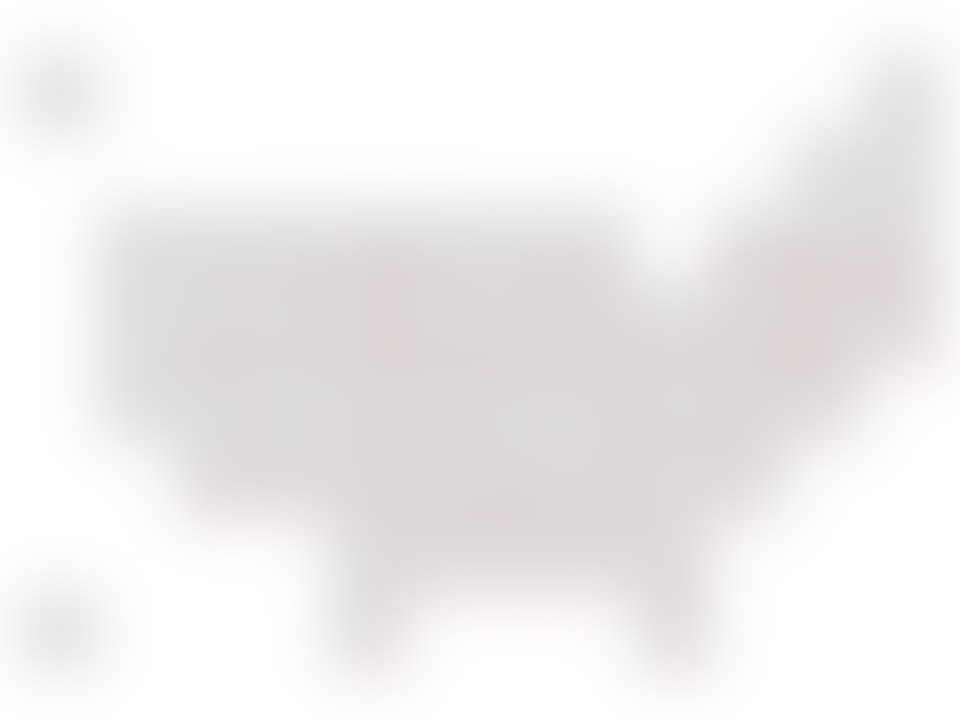
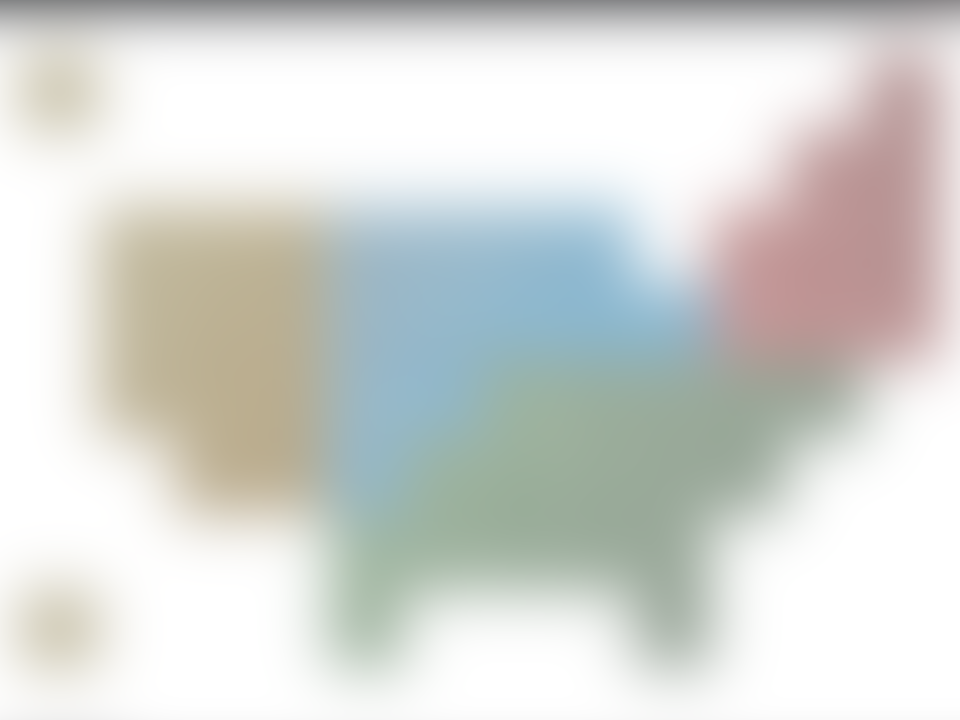
color coded state layout

diff --git a/main.js b/main.js
@@ -187,13 +187,6 @@ Promise.all(promises).then(function(values) {
     // data = weeklyData.concat(leadingCausesWeekly).sort((a, b) => b.count - a.count)
     data = monthlyData.concat(leadingCausesMonthly).sort((a, b) => b.count - a.count)
 
-    const stateLayout = new StateLayout({
-        element: document.querySelector('#state-chart-container'),
-        data: stateDataObj,
-        x: d => d.date,
-        y: d => d.deaths
-    })
-
     const lineChart = new LineChart({
         element: document.querySelector('#line-chart-container'),
         data: dailyData,
@@ -247,6 +240,7 @@ Promise.all(promises).then(function(values) {
         'LA': 'South', 
         'TX': 'South',
         'OK': 'South',
+        'DC': 'South',
 
         'OH': 'Midwest',
         'MI': 'Midwest',
@@ -270,7 +264,6 @@ Promise.all(promises).then(function(values) {
         'NY':'Northeast', 
         'NJ':'Northeast', 
         'PA':'Northeast',
-        'DC':'Northeast'
     }
 
     regionColor = {
@@ -285,65 +278,73 @@ Promise.all(promises).then(function(values) {
     }
 
     stateColors = {
-        'CO': d3.interpolate(d3.color(regionColor.West.high), d3.color(regionColor.West.low))(0/12), 
-        'CA': d3.interpolate(d3.color(regionColor.West.high), d3.color(regionColor.West.low))(1/12), 
+        'AK': d3.interpolate(d3.color(regionColor.West.high), d3.color(regionColor.West.low))(0/12), 
+        'HI': d3.interpolate(d3.color(regionColor.West.high), d3.color(regionColor.West.low))(1/12), 
         'WA': d3.interpolate(d3.color(regionColor.West.high), d3.color(regionColor.West.low))(2/12),
-        'NM': d3.interpolate(d3.color(regionColor.West.high), d3.color(regionColor.West.low))(3/12),
-        'NV': d3.interpolate(d3.color(regionColor.West.high), d3.color(regionColor.West.low))(4/12),
-        'OR': d3.interpolate(d3.color(regionColor.West.high), d3.color(regionColor.West.low))(5/12),
-        'AZ': d3.interpolate(d3.color(regionColor.West.high), d3.color(regionColor.West.low))(6/12),
-        'WY': d3.interpolate(d3.color(regionColor.West.high), d3.color(regionColor.West.low))(7/12), 
-        'ID': d3.interpolate(d3.color(regionColor.West.high), d3.color(regionColor.West.low))(8/12), 
-        'MT': d3.interpolate(d3.color(regionColor.West.high), d3.color(regionColor.West.low))(9/12), 
-        'UT': d3.interpolate(d3.color(regionColor.West.high), d3.color(regionColor.West.low))(10/12), 
-        'AK': d3.interpolate(d3.color(regionColor.West.high), d3.color(regionColor.West.low))(11/12), 
-        'HI': d3.interpolate(d3.color(regionColor.West.high), d3.color(regionColor.West.low))(12/12), 
+        'OR': d3.interpolate(d3.color(regionColor.West.high), d3.color(regionColor.West.low))(3/12),
+        'ID': d3.interpolate(d3.color(regionColor.West.high), d3.color(regionColor.West.low))(4/12), 
+        'CA': d3.interpolate(d3.color(regionColor.West.high), d3.color(regionColor.West.low))(5/12), 
+        'NV': d3.interpolate(d3.color(regionColor.West.high), d3.color(regionColor.West.low))(6/12),
+        'MT': d3.interpolate(d3.color(regionColor.West.high), d3.color(regionColor.West.low))(7/12), 
+        'UT': d3.interpolate(d3.color(regionColor.West.high), d3.color(regionColor.West.low))(8/12), 
+        'WY': d3.interpolate(d3.color(regionColor.West.high), d3.color(regionColor.West.low))(9/12), 
+        'AZ': d3.interpolate(d3.color(regionColor.West.high), d3.color(regionColor.West.low))(10/12),
+        'CO': d3.interpolate(d3.color(regionColor.West.high), d3.color(regionColor.West.low))(11/12), 
+        'NM': d3.interpolate(d3.color(regionColor.West.high), d3.color(regionColor.West.low))(12/12),
 
-        'TX': d3.interpolate(d3.color(regionColor.South.high), d3.color(regionColor.South.low))(0/15),
-        'NC': d3.interpolate(d3.color(regionColor.South.high), d3.color(regionColor.South.low))(1/15), 
-        'WV': d3.interpolate(d3.color(regionColor.South.high), d3.color(regionColor.South.low))(2/15), 
-        'AR': d3.interpolate(d3.color(regionColor.South.high), d3.color(regionColor.South.low))(3/15), 
-        'VA': d3.interpolate(d3.color(regionColor.South.high), d3.color(regionColor.South.low))(4/15), 
-        'SC': d3.interpolate(d3.color(regionColor.South.high), d3.color(regionColor.South.low))(5/15), 
-        'OK': d3.interpolate(d3.color(regionColor.South.high), d3.color(regionColor.South.low))(6/15),
-        'MS': d3.interpolate(d3.color(regionColor.South.high), d3.color(regionColor.South.low))(7/15), 
-        'TN': d3.interpolate(d3.color(regionColor.South.high), d3.color(regionColor.South.low))(8/15), 
-        'LA': d3.interpolate(d3.color(regionColor.South.high), d3.color(regionColor.South.low))(9/15), 
-        'AL': d3.interpolate(d3.color(regionColor.South.high), d3.color(regionColor.South.low))(10/15), 
-        'KY': d3.interpolate(d3.color(regionColor.South.high), d3.color(regionColor.South.low))(11/15), 
-        'MD': d3.interpolate(d3.color(regionColor.South.high), d3.color(regionColor.South.low))(12/15), 
-        'FL': d3.interpolate(d3.color(regionColor.South.high), d3.color(regionColor.South.low))(13/15), 
-        'DE': d3.interpolate(d3.color(regionColor.South.high), d3.color(regionColor.South.low))(14/15), 
-        'GA': d3.interpolate(d3.color(regionColor.South.high), d3.color(regionColor.South.low))(15/15), 
-
-        'KS': d3.interpolate(d3.color(regionColor.Midwest.high), d3.color(regionColor.Midwest.low))(0/11),
-        'ND': d3.interpolate(d3.color(regionColor.Midwest.high), d3.color(regionColor.Midwest.low))(1/11), 
-        'WI': d3.interpolate(d3.color(regionColor.Midwest.high), d3.color(regionColor.Midwest.low))(2/11), 
+        'ND': d3.interpolate(d3.color(regionColor.Midwest.high), d3.color(regionColor.Midwest.low))(0/11), 
+        'SD': d3.interpolate(d3.color(regionColor.Midwest.high), d3.color(regionColor.Midwest.low))(1/11), 
+        'MN': d3.interpolate(d3.color(regionColor.Midwest.high), d3.color(regionColor.Midwest.low))(2/11), 
         'NE': d3.interpolate(d3.color(regionColor.Midwest.high), d3.color(regionColor.Midwest.low))(3/11), 
-        'MI': d3.interpolate(d3.color(regionColor.Midwest.high), d3.color(regionColor.Midwest.low))(4/11),
-        'IN': d3.interpolate(d3.color(regionColor.Midwest.high), d3.color(regionColor.Midwest.low))(5/11), 
-        'MO': d3.interpolate(d3.color(regionColor.Midwest.high), d3.color(regionColor.Midwest.low))(6/11), 
-        'IA': d3.interpolate(d3.color(regionColor.Midwest.high), d3.color(regionColor.Midwest.low))(7/11), 
+        'IA': d3.interpolate(d3.color(regionColor.Midwest.high), d3.color(regionColor.Midwest.low))(4/11), 
+        'WI': d3.interpolate(d3.color(regionColor.Midwest.high), d3.color(regionColor.Midwest.low))(5/11), 
+        'KS': d3.interpolate(d3.color(regionColor.Midwest.high), d3.color(regionColor.Midwest.low))(6/11),
+        'MO': d3.interpolate(d3.color(regionColor.Midwest.high), d3.color(regionColor.Midwest.low))(7/11), 
         'IL': d3.interpolate(d3.color(regionColor.Midwest.high), d3.color(regionColor.Midwest.low))(8/11), 
-        'MN': d3.interpolate(d3.color(regionColor.Midwest.high), d3.color(regionColor.Midwest.low))(9/11), 
-        'OH': d3.interpolate(d3.color(regionColor.Midwest.high), d3.color(regionColor.Midwest.low))(10/11), 
-        'SD': d3.interpolate(d3.color(regionColor.Midwest.high), d3.color(regionColor.Midwest.low))(11/11), 
+        'MI': d3.interpolate(d3.color(regionColor.Midwest.high), d3.color(regionColor.Midwest.low))(9/11),
+        'IN': d3.interpolate(d3.color(regionColor.Midwest.high), d3.color(regionColor.Midwest.low))(10/11), 
+        'OH': d3.interpolate(d3.color(regionColor.Midwest.high), d3.color(regionColor.Midwest.low))(11/11), 
 
-        'VT': d3.interpolate(d3.color(regionColor.Northeast.high), d3.color(regionColor.Northeast.low))(0/9),
-        'PA': d3.interpolate(d3.color(regionColor.Northeast.high), d3.color(regionColor.Northeast.low))(1/9),
-        'ME': d3.interpolate(d3.color(regionColor.Northeast.high), d3.color(regionColor.Northeast.low))(2/9),
-        'RI': d3.interpolate(d3.color(regionColor.Northeast.high), d3.color(regionColor.Northeast.low))(3/9),
-        'MA': d3.interpolate(d3.color(regionColor.Northeast.high), d3.color(regionColor.Northeast.low))(4/9),
-        'NY': d3.interpolate(d3.color(regionColor.Northeast.high), d3.color(regionColor.Northeast.low))(5/9),
-        'CT': d3.interpolate(d3.color(regionColor.Northeast.high), d3.color(regionColor.Northeast.low))(6/9),
-        'NH': d3.interpolate(d3.color(regionColor.Northeast.high), d3.color(regionColor.Northeast.low))(7/9),
-        'NJ': d3.interpolate(d3.color(regionColor.Northeast.high), d3.color(regionColor.Northeast.low))(8/9),
-        'DC': d3.interpolate(d3.color(regionColor.Northeast.high), d3.color(regionColor.Northeast.low))(9/9),
+        'OK': d3.interpolate(d3.color(regionColor.South.high), d3.color(regionColor.South.low))(0/16),
+        'AR': d3.interpolate(d3.color(regionColor.South.high), d3.color(regionColor.South.low))(1/16), 
+        'KY': d3.interpolate(d3.color(regionColor.South.high), d3.color(regionColor.South.low))(2/16), 
+        'TX': d3.interpolate(d3.color(regionColor.South.high), d3.color(regionColor.South.low))(3/16),
+        'LA': d3.interpolate(d3.color(regionColor.South.high), d3.color(regionColor.South.low))(4/16), 
+        'MS': d3.interpolate(d3.color(regionColor.South.high), d3.color(regionColor.South.low))(5/16), 
+        'WV': d3.interpolate(d3.color(regionColor.South.high), d3.color(regionColor.South.low))(6/16), 
+        'AL': d3.interpolate(d3.color(regionColor.South.high), d3.color(regionColor.South.low))(7/16), 
+        'TN': d3.interpolate(d3.color(regionColor.South.high), d3.color(regionColor.South.low))(8/16), 
+        'VA': d3.interpolate(d3.color(regionColor.South.high), d3.color(regionColor.South.low))(9/16), 
+        'GA': d3.interpolate(d3.color(regionColor.South.high), d3.color(regionColor.South.low))(10/16), 
+        'NC': d3.interpolate(d3.color(regionColor.South.high), d3.color(regionColor.South.low))(11/16), 
+        'MD': d3.interpolate(d3.color(regionColor.South.high), d3.color(regionColor.South.low))(12/16), 
+        'SC': d3.interpolate(d3.color(regionColor.South.high), d3.color(regionColor.South.low))(13/16), 
+        'DC': d3.interpolate(d3.color(regionColor.South.high), d3.color(regionColor.South.low))(14/16), 
+        'DE': d3.interpolate(d3.color(regionColor.South.high), d3.color(regionColor.South.low))(15/16), 
+        'FL': d3.interpolate(d3.color(regionColor.South.high), d3.color(regionColor.South.low))(16/16), 
+
+        'PA': d3.interpolate(d3.color(regionColor.Northeast.high), d3.color(regionColor.Northeast.low))(0/8),
+        'NY': d3.interpolate(d3.color(regionColor.Northeast.high), d3.color(regionColor.Northeast.low))(1/8),
+        'CT': d3.interpolate(d3.color(regionColor.Northeast.high), d3.color(regionColor.Northeast.low))(2/8),
+        'NJ': d3.interpolate(d3.color(regionColor.Northeast.high), d3.color(regionColor.Northeast.low))(3/8),
+        'RI': d3.interpolate(d3.color(regionColor.Northeast.high), d3.color(regionColor.Northeast.low))(4/8),
+        'VT': d3.interpolate(d3.color(regionColor.Northeast.high), d3.color(regionColor.Northeast.low))(5/8),
+        'MA': d3.interpolate(d3.color(regionColor.Northeast.high), d3.color(regionColor.Northeast.low))(6/8),
+        'NH': d3.interpolate(d3.color(regionColor.Northeast.high), d3.color(regionColor.Northeast.low))(7/8),
+        'ME': d3.interpolate(d3.color(regionColor.Northeast.high), d3.color(regionColor.Northeast.low))(8/8),
     }
 
     function stateColor(state) {
         return stateColors[state] ? stateColors[state] : '#888';
     }
+
+    const stateLayout = new StateLayout({
+        element: document.querySelector('#state-chart-container'),
+        data: stateDataObj,
+        x: d => d.date,
+        y: d => d.deaths,
+        color: stateColor        
+    })
 
 
     const areaChart = new AreaChart({

diff --git a/statelayout.js b/statelayout.js
@@ -69,8 +69,9 @@ class AreaSubChart {
             bottom: 1,
             left: 1
         }
-        this.bgColor = '#DDD'
-        this.fillColor = 'rgb(204, 29, 31)';
+        // this.bgColor = '#DDD'
+        //this.fillColor = 'rgb(204, 29, 31)';
+        
         this.strokeColor = '#67000D';
 
         if(opts.modal) this.modal = opts.modal;
@@ -85,6 +86,9 @@ class AreaSubChart {
 
         if(opts.height) this.height = opts.height;
         if(opts.width) this.width = opts.width;
+
+        this.bgColor = opts.bgColor;
+        this.fillColor = opts.fillColor;
 
         this.draw();
     }
@@ -213,11 +217,14 @@ class StateLayout {
     constructor(opts) {  
         this.x = d => d.x;
         this.y = d => d.y;
+        // this.color = "#DDD";
     
         this.data = opts.data;
         this.element = opts.element;
         if(opts.x) this.x = opts.x;
         if(opts.y) this.y = opts.y;
+        // if(opts.color) this.color = opts.color;
+        this.color = opts.color;
 
         this.modal = new Modal({
             element: document.querySelector('#state-modal'),
@@ -362,6 +369,9 @@ class StateLayout {
                 height: this.boxSize,
                 width: this.boxSize,
                 state: d.state,
+                bgColor: d3.interpolate(this.color(d.state), '#DDD')(0.6),
+                fillColor: d3.interpolate(this.color(d.state), '#333')(0.6),
+                
             })
 
         })
